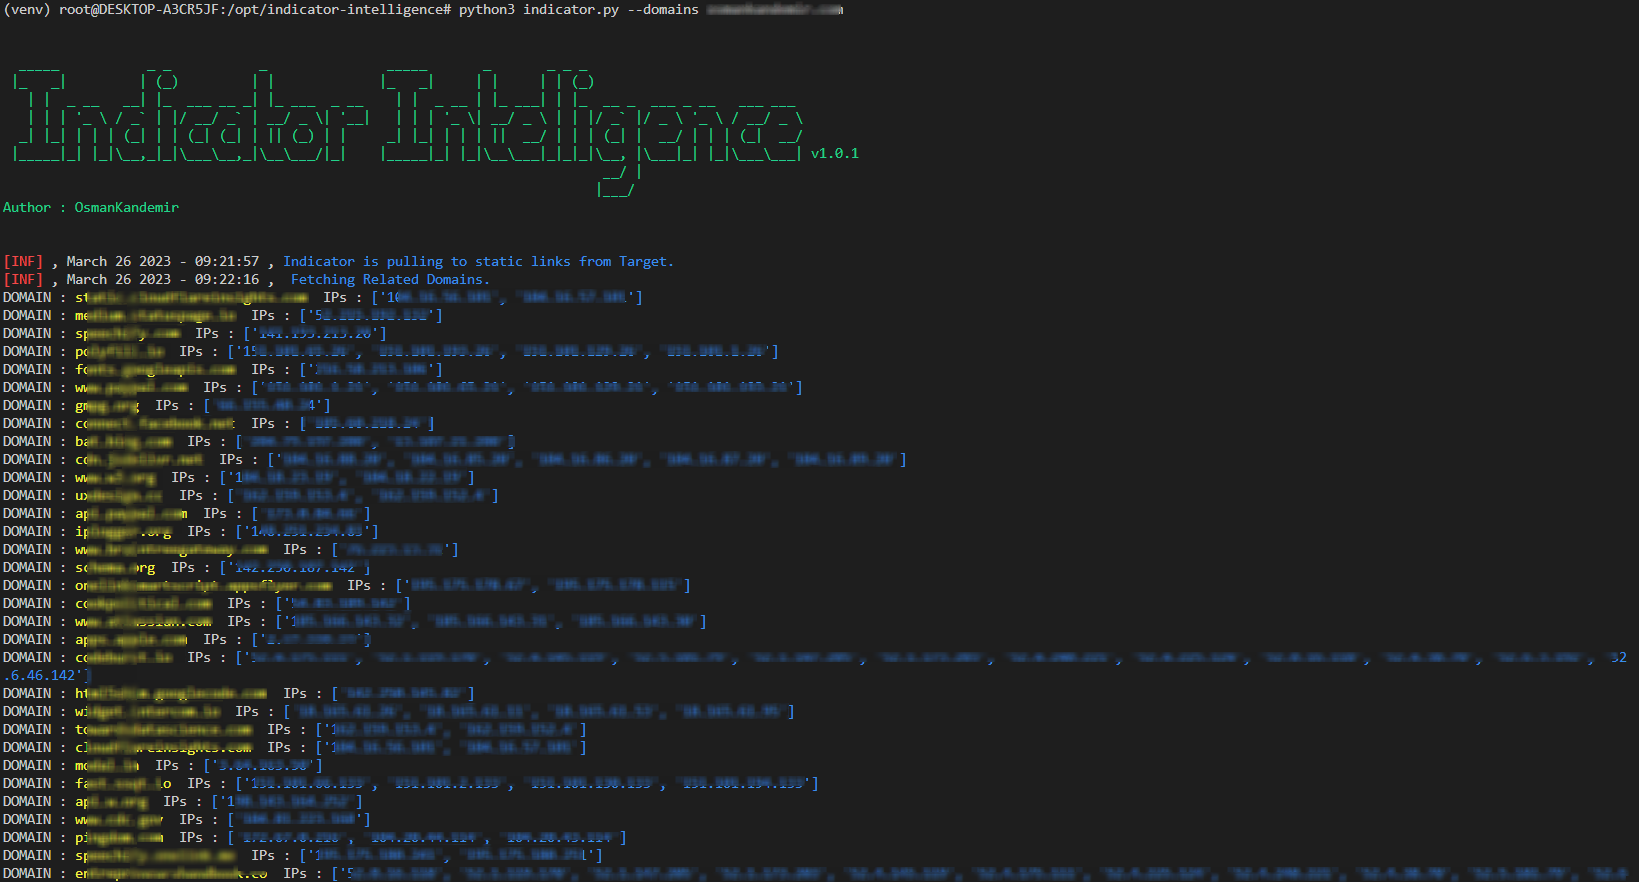
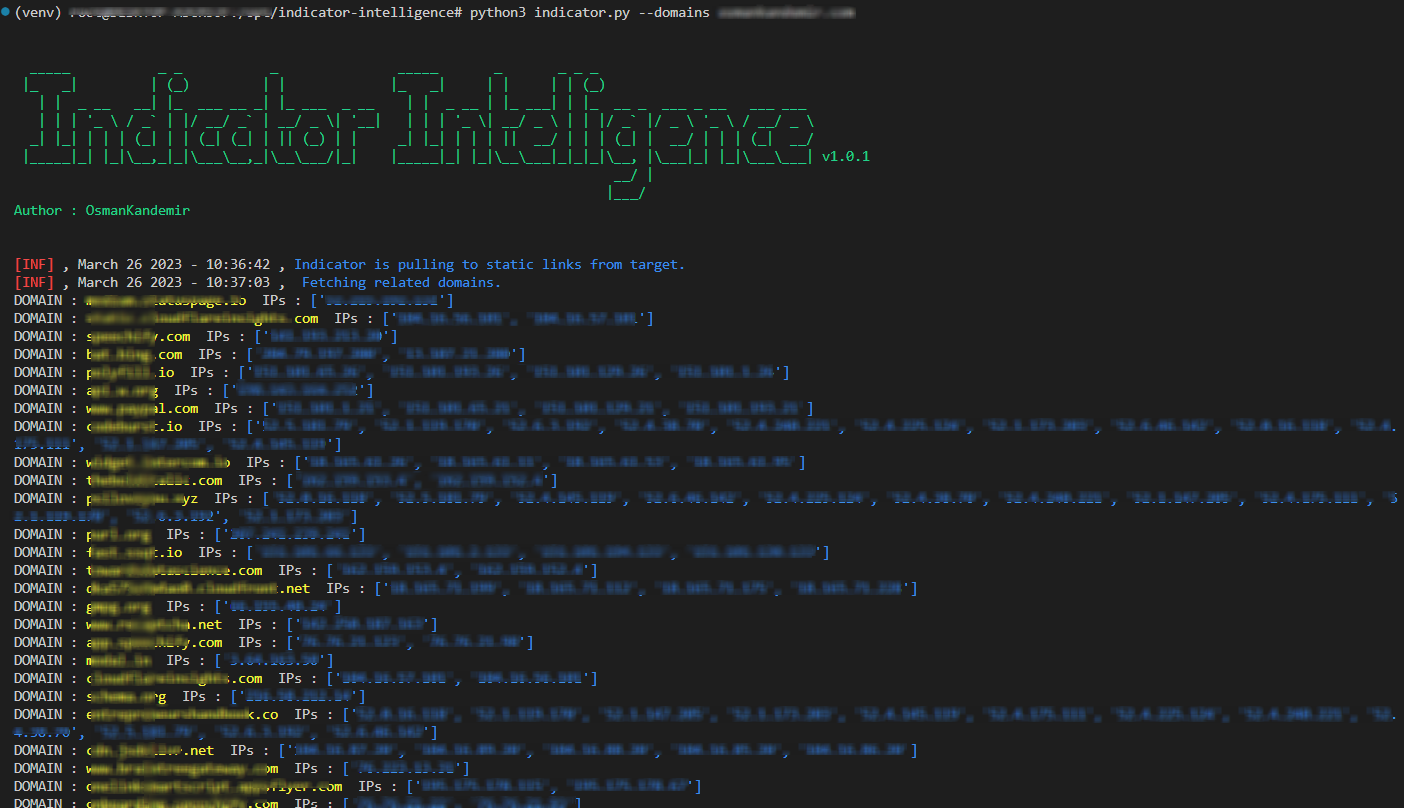
Updated.

diff --git a/indicator.py b/indicator.py
@@ -120,7 +120,7 @@ class LinkExtractor():
 
     def Start(self,url:str,results_queue:queue.Queue):
         Tst = []
-        msg(f"{bcolors.OKBLUE}Indicator is pulling to static links from Target.{bcolors.ENDC}")
+        msg(f"{bcolors.OKBLUE}Indicator is pulling to static links from target.{bcolors.ENDC}")
         try:
             res = self.Crawling(url)
             res = list(set(res))
@@ -154,7 +154,7 @@ class LinkExtractor():
             return ReadData(self.worktime_,self.json_)
             
         except Exception as Error:
-            msg(f"{bcolors.OKBLUE}Undefined Domain or Connection Error.{bcolors.ENDC} {Error}")
+            msg(f"{bcolors.OKBLUE}Undefined domain or connection error.{bcolors.ENDC}")
 
     @property
     def urls(self) -> list:

diff --git a/indicator/V1DomainFinder.py b/indicator/V1DomainFinder.py
@@ -17,7 +17,7 @@ PATH = os.getcwd() or "/"
 async def check_domains(domains:list, json:str, worktime:str) -> dict:
     RealRest = []
     resolver = aiodns.DNSResolver()
-    msg(f"{bcolors.OKBLUE} Fetching Related Domains.{bcolors.ENDC}" )
+    msg(f"{bcolors.OKBLUE} Fetching related domains.{bcolors.ENDC}" )
     tasks = [asyncio.ensure_future(resolve_domain(resolver, domain, json)) for domain in domains]
     results = await asyncio.gather(*tasks)
     for domain, result in zip(domains, results): 
